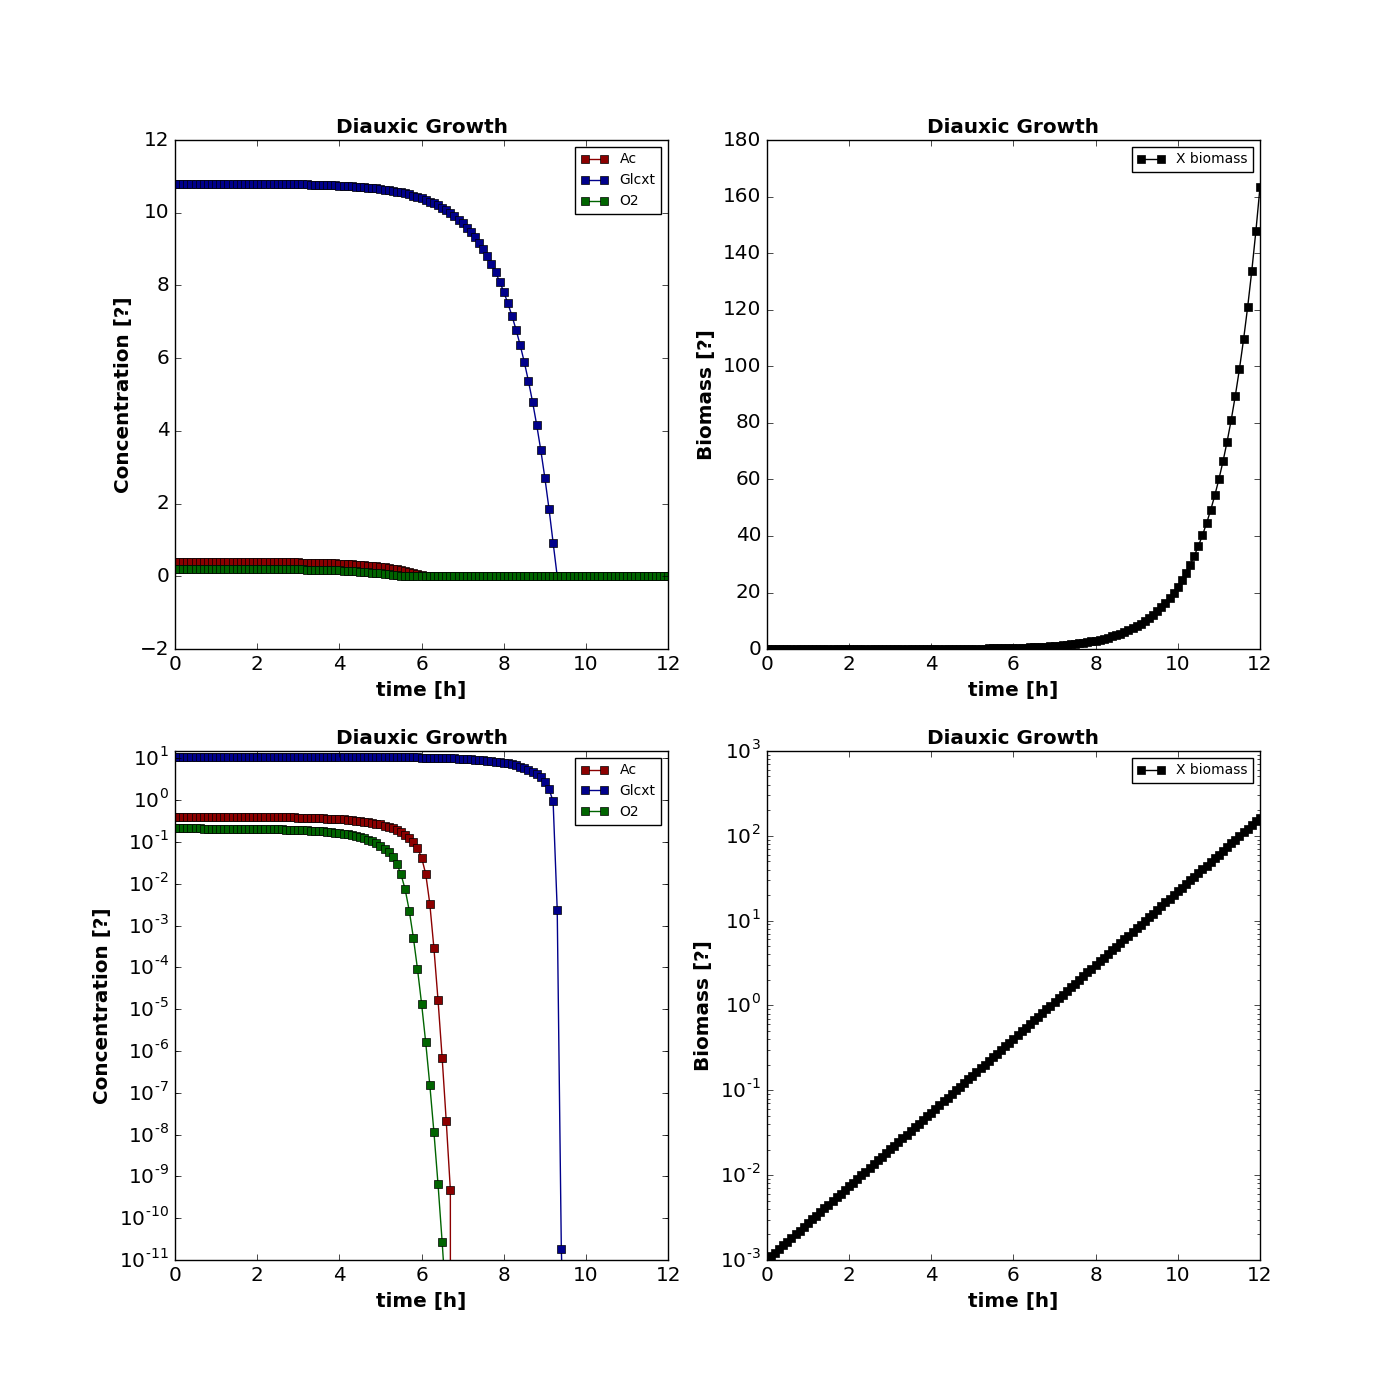
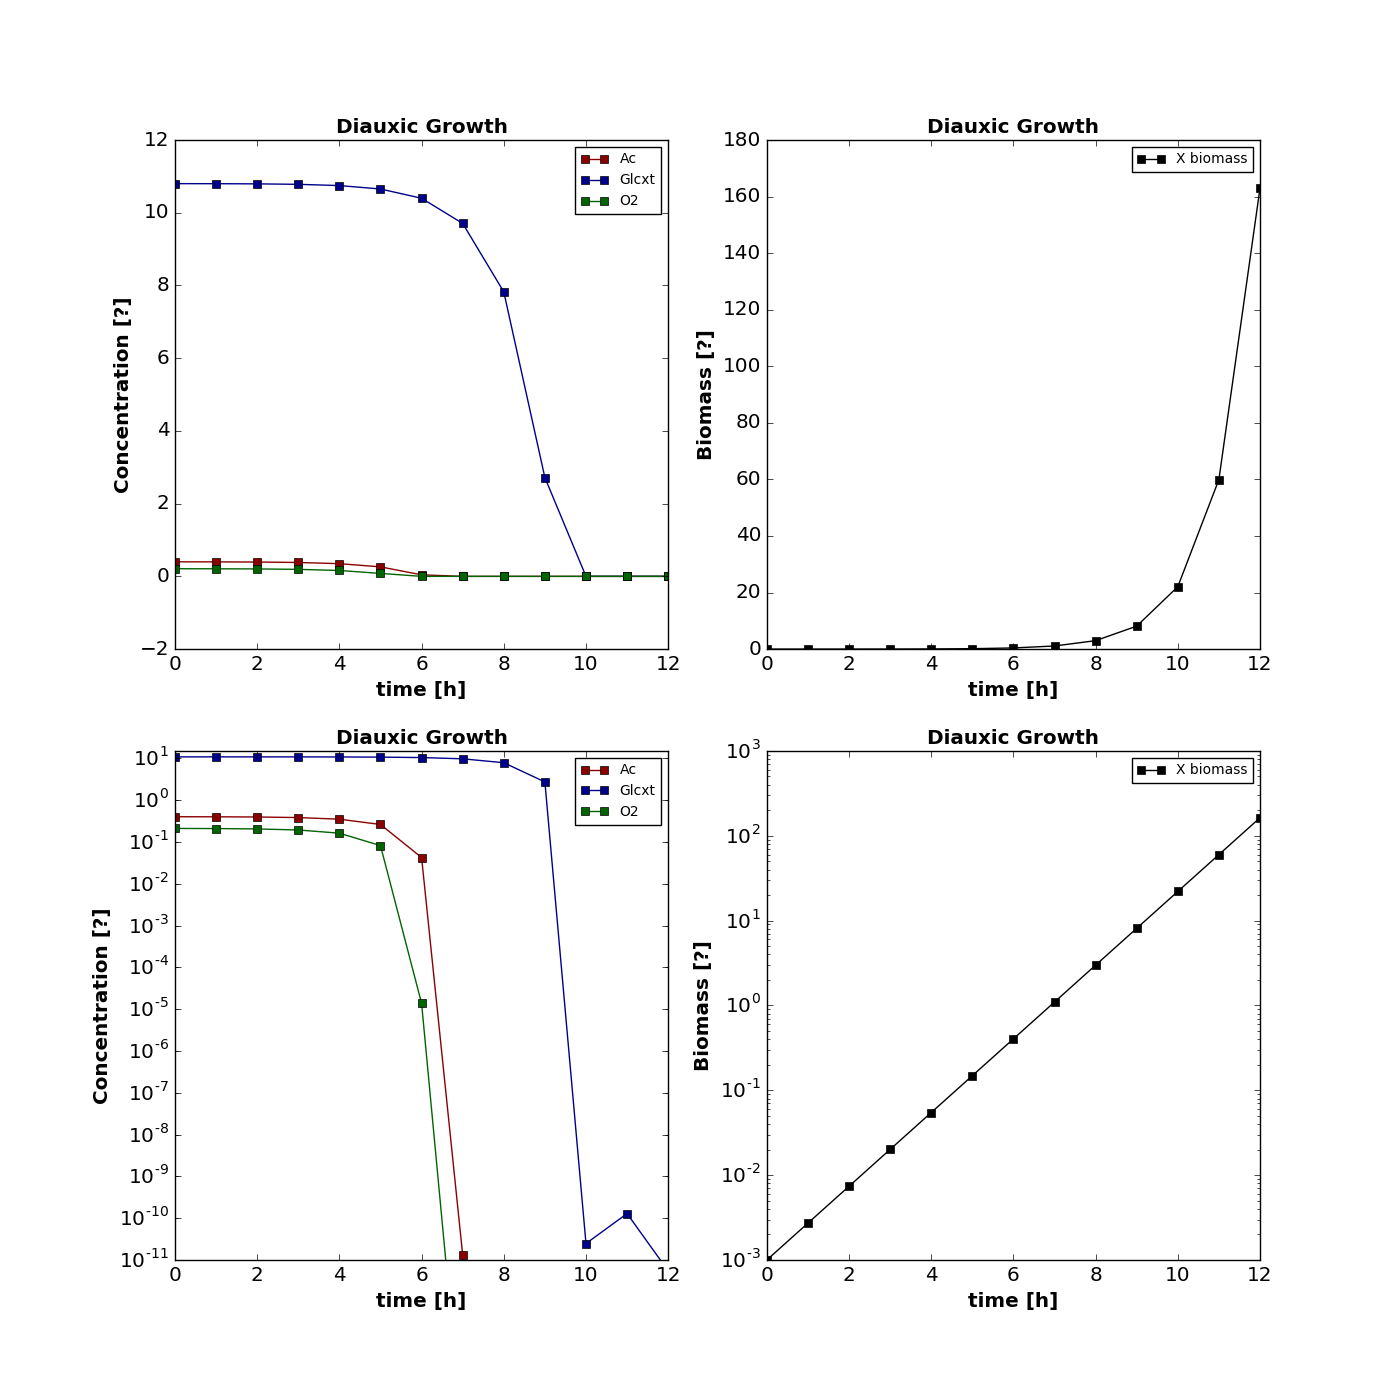
working on simulator output

diff --git a/sbmlutils/dfba/simulator.py b/sbmlutils/dfba/simulator.py
@@ -10,6 +10,8 @@ ODE models are simulated with roadrunner, FBA models using cobrapy.
 # TODO: Fix the zero time point of the simulation, how to handle this correctly (when are fluxes calculated
 #       and when are the updates written (order and timing of updates)
 
+# TODO:
+
 from __future__ import print_function, division
 import os
 import logging
@@ -72,16 +74,16 @@ class FBAModel(object):
 
     def __str__(self):
         """ Information string. """
-        s = "{}\n".format('-' * 80)
-        s += "{} {}\n".format(self.submodel, self.source)
-        s += "{}\n".format('-' * 80)
-        s += "{:<20}: {}\n".format('FBA rules', self.fba_rules)
-        s += "{:<20}: {}\n".format('ub parameters', self.ub_parameters)
-        s += "{:<20}: {}\n".format('lb parameters', self.lb_parameters)
-        s += "{:<20}: {}\n".format('ub replacements', self.ub_replacements)
-        s += "{:<20}: {}\n".format('lb replacements', self.lb_replacements)
-        s += "{:<20}: {}\n".format('flat mapping', self.flat_mapping)
-        s += "{}\n".format('-' * 80)
+        # s = "{}\n".format('-' * 80)
+        s = "{} {}\n".format(self.submodel, self.source)
+        # s += "{}\n".format('-' * 80)
+        s += "\t{:<20}: {}\n".format('FBA rules', self.fba_rules)
+        s += "\t{:<20}: {}\n".format('ub parameters', self.ub_parameters)
+        s += "\t{:<20}: {}\n".format('lb parameters', self.lb_parameters)
+        s += "\t{:<20}: {}\n".format('ub replacements', self.ub_replacements)
+        s += "\t{:<20}: {}\n".format('lb replacements', self.lb_replacements)
+        s += "\t{:<20}: {}\n".format('flat mapping', self.flat_mapping)
+        # s += "{}\n".format('-' * 80)
 
         return s
 
@@ -239,18 +241,18 @@ class Simulator(object):
         self.sbml_dir = os.path.dirname(sbml_top_path)
 
         # read top level model
-        self.doc_top = libsbml.readSBMLFromFile(self.sbml_top)
-        self.model_top = self.doc_top.getModel()
-        self.framework_top = self.get_framework(self.model_top)
-        if self.framework_top is not MODEL_FRAMEWORK_ODE:
-            warnings.warn("The top level model framework is not ode: {}".format(self.framework_top))
-
+        self.doc_top = None
+        self.model_top = None
+        self.framework_top = None
         self.submodels = defaultdict(list)
         self.rr_comp = None
         self.fba_models = []
 
-        self._process_top_level()
-        self._prepare_models()
+        self._process_top()
+        self._process_models()
+
+        # log model information
+        logging.info(self)
 
         # change back the working dir
         os.chdir(working_dir)
@@ -284,59 +286,76 @@ class Simulator(object):
         """ Information string. """
         # top level
         s = "{}\n".format('-' * 80)
-        s += "{} {}\n".format(self.doc_top, self.framework_top)
+        s += "{} [{}]\n".format(self.model_top, self.framework_top)
         s += "{}\n".format('-' * 80)
 
         # sub models
         for framework in MODEL_FRAMEWORKS:
             s += "{:<10} : {}\n".format(framework, self.submodels[framework])
+        # FBA rules
+        s += "{:<10} : {}\n".format('fba rules', self.fba_rules)
+
+        # FBA model information
+        for fba_model in self.fba_models:
+            s += '\n' + fba_model.__str__()
         s += "{}\n".format('-' * 80)
 
         return s
 
-    def _process_top_level(self):
-        """ Process the top level information.
-
-        Reads all the submodels, creates the global data structure.
-        Order for executtion
+    def fba_rules_str(self):
+        """ Printable string for the FBA rules
 
         :return:
         """
-        # get list of submodels
-        model = self.doc_top.getModel()
-        if model is None:
+        lines = ['FBA rules:']
+        for key, value in self.fba_rules.iteritems():
+            lines.append('\t{} : {}'.format(key, value))
+        return "\n".join(lines)
+
+    def _process_top(self):
+        """ Process the top model.
+        Reads top model and submodels.
+
+        :return:
+        """
+        logging.debug('* _process_top')
+        self.doc_top = libsbml.readSBMLFromFile(self.sbml_top)
+        self.model_top = self.doc_top.getModel()
+        if self.model_top is None:
             warnings.warn("No top level model found.")
 
-        # Get submodel frameworks & store in respective list
+        self.framework_top = self.get_framework(self.model_top)
+        if self.framework_top is not MODEL_FRAMEWORK_ODE:
+            warnings.warn("The top level model framework is not ode: {}".format(self.framework_top))
+
+        # get submodels with frameworks
         top_plugin = self.model_top.getPlugin("comp")
         for submodel in top_plugin.getListOfSubmodels():
             # models are processed in the order they are listed in the listOfSubmodels
             framework = Simulator.get_framework(submodel)
             self.submodels[framework].append(submodel)
 
-        print(self)
-
-    def _prepare_models(self):
-        """ Prepare the models for simulation.
+    def _process_models(self):
+        """ Process and prepare models for simulation.
 
         Resolves the replacements and model couplings between the
-        different frameworks and creates the respective simulatable
-        models for the different frameworks.
+        different frameworks and creates models which can be simulated with
+        the different frameworks.
+
+        An important step is finding the fba rules in the top model.
 
         :return:
         :rtype:
         """
-        logging.debug('_prepare_models')
+        logging.debug('* _process_models')
         ###########################
-        # find FBA rules
+        # FBA rules
         ###########################
-
         # process FBA assignment rules of the top model
-        self.fba_rules = self.find_fba_rules(self.model_top)
-        logging.debug('FBA rules: {}'.format(self.fba_rules))
+        self.fba_rules = Simulator.find_fba_rules(self.model_top)
 
         ###########################
-        # prepare ODE model
+        # ODE model
         ###########################
         # the roadrunner ode file is the flattend comp file.
         # FBA subparts do not change change any of the kinetic subparts (only connections via replaced bounds
@@ -385,11 +404,11 @@ class Simulator(object):
             fba_model.process_replacements(self.model_top)
             fba_model.process_flat_mapping(self.rr_comp)
             self.fba_models.append(fba_model)
-            print(fba_model)
 
 
-    def find_fba_rules(self, top_model):
-        """ Finds FBA rules in top model.
+    @classmethod
+    def find_fba_rules(cls, top_model):
+        """ Find FBA rules in top model.
 
         Find the assignment rules which assign a reaction rate to a parameter.
         This are the assignment rules synchronizing between FBA and ODE models.
@@ -414,9 +433,10 @@ class Simulator(object):
             fba_rules[reaction.getId()] = parameter.getId()
         return fba_rules
 
+
     def simulate(self, tstart=0.0, tend=10.0, steps=20):
         """
-        Performs model simulation.
+        Perform model simulation.
 
         The simulator figures out based on the SBO terms in the list of submodels, which
         simulation/modelling framework to use.

diff --git a/sbmlutils/dfba/diauxic_growth/simulate.py b/sbmlutils/dfba/diauxic_growth/simulate.py
@@ -9,10 +9,10 @@ out_dir = os.path.join(os.path.dirname(os.path.abspath(__file__)), 'results')
 from sbmlutils.dfba.simulator import Simulator
 
 
-def simulate_diauxic_growth():
+def simulate_diauxic_growth(tend=12, steps=120):
     """ Simulate the diauxic growth model.
 
-    :return:
+    :return: solution data frame
     """
     sbml_top_path = os.path.join(out_dir, 'diauxic_top.xml')
 
@@ -20,20 +20,18 @@ def simulate_diauxic_growth():
     sim = Simulator(sbml_top_path=sbml_top_path)
 
     # Run simulation of hybrid model
-    tend = 12
-    steps = 10*tend
     start_time = timeit.default_timer()
     df = sim.simulate(tstart=0.0, tend=tend, steps=steps)
     elapsed = timeit.default_timer() - start_time
     print("Simulation time: {}".format(elapsed))
-
-    pprint(df)
 
     sim.plot_reactions(os.path.join(out_dir, "reactions.png"), df, rr_comp=sim.rr_comp)
     sim.plot_species(os.path.join(out_dir, "species.png"), df, rr_comp=sim.rr_comp)
     sim.save_csv(os.path.join(out_dir, "simulation.csv"), df)
 
     print_species(df)
+    return df
+
 
 def print_species(df):
     """ Print diauxic species.
@@ -53,7 +51,7 @@ def print_species(df):
         'ytick.labelsize': 'large',
     })
 
-    fig, ((ax1, ax2),(ax3, ax4)) = plt.subplots(nrows=2, ncols=2, figsize=(14, 14))
+    fig, ((ax1, ax2), (ax3, ax4)) = plt.subplots(nrows=2, ncols=2, figsize=(14, 14))
 
     for ax in (ax1, ax3):
         ax.plot(df.time, df['[Ac]'],
@@ -84,6 +82,8 @@ def print_species(df):
     fig.savefig(os.path.join(out_dir, "species_growth.png"))
 
 if __name__ == "__main__":
-    simulate_diauxic_growth()
+    tend = 12
+    steps = tend
+    df = simulate_diauxic_growth(tend, steps)
 
 
